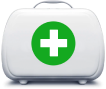
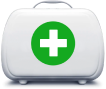
правки в иконки

diff --git a/assets/scss/style_lk.scss b/assets/scss/style_lk.scss
@@ -524,36 +524,29 @@
             z-index: 1;
         }
         
-        .block-policy[data-id="1"]:after {
-            background-color: #EDF8EA;
-        }
-        
-        .block-policy[data-id="2"]:after {
+        .block-policy[data-id="1"]:after,
+        .block-policy[data-id="8"]:after,
+        .block-policy[data-id="10"]:after {
             background-color: #ECF3FA;
         }
         
-        .block-policy[data-id="3"]:after {
-            background-color: #ECEBF4;
+        .block-policy[data-id="2"]:after,
+        .block-policy[data-id="3"]:after,
+        .block-policy[data-id="5"]:after {
+            background-color: #EDF8EA;
         }
         
         .block-policy[data-id="4"]:after {
-            background-color: #EDF8EA;
-        }
-        
-        .block-policy[data-id="5"]:after {
-            background-color: #ECF3FA;
-        }
-        
-        .block-policy[data-id="6"]:after {
             background-color: #ECEBF4;
         }
         
-        .block-policy[data-id="7"]:after {
+        .block-policy[data-id="5"]:after {
             background-color: #EDF8EA;
         }
         
-        .block-policy[data-id="8"]:after {
-            background-color: #ECF3FA;
+        .block-policy[data-id="6"]:after,
+        .block-policy[data-id="7"]:after {
+            background-color: #FFF8E6;
         }
         
         .block-policy[data-id="1"]:before {
@@ -565,7 +558,7 @@
         }
         
         .block-policy[data-id="3"]:before {
-            background: url(/img/product-id2.png) 50% 50% no-repeat;
+            background: url(/img/product-id3.png) 50% 50% no-repeat;
         }
         
         .block-policy[data-id="4"]:before {
@@ -577,15 +570,19 @@
         }
         
         .block-policy[data-id="6"]:before {
-            background: url(/img/product-id3.png) 50% 50% no-repeat;
+            background: url(/img/product-id6.png) 50% 50% no-repeat;
         }
         
         .block-policy[data-id="7"]:before {
-            background: url(/img/product-id1.png) 50% 50% no-repeat;
+            background: url(/img/product-id7.png) 50% 50% no-repeat;
         }
         
         .block-policy[data-id="8"]:before {
             background: url(/img/product-id1.png) 50% 50% no-repeat;
+        }
+        
+        .block-policy[data-id="10"]:before {
+            background: url(/img/product-id10.png) 50% 50% no-repeat;
         }
         
         .insured-events .title,
@@ -656,132 +653,85 @@
             font-size: 0.875rem;
         }
         
-        .insured-events[data-id="1"] {
-            background-color: #EDF8EA;
-        }
-        
-        .insured-events[data-id="2"] {
+        .insured-events[data-id="1"],
+        .insured-events[data-id="8"],
+        .insured-events[data-id="10"] {
             background-color: #ECF3FA;
         }
         
-        .insured-events[data-id="3"] {
+        .insured-events[data-id="2"],
+        .insured-events[data-id="3"],
+        .insured-events[data-id="5"] {
             background-color: #EDF8EA;
         }
         
         .insured-events[data-id="4"] {
-            background-color: #ECF3FA;
+            background-color: #ECEBF4;
         }
         
         .insured-events[data-id="5"] {
             background-color: #EDF8EA;
         }
         
-        .insured-events[data-id="6"] {
-            background-color: #ECF3FA;
-        }
-        
+        .insured-events[data-id="6"],
         .insured-events[data-id="7"] {
-            background-color: #EDF8EA;
+            background-color: #FFF8E6;
         }
         
-        .insured-events[data-id="8"] {
-            background-color: #ECF3FA;
+        .insured-events[data-id]:after {
+            width: 70px;
+            height: 70px;
+            border-radius: 70px;
+            border: 11px solid transparent;
+            content: "";
+            position: absolute;
+            right: 13px;
+            top: 13px;
         }
         
         .insured-events[data-id="1"]:after {
-            width: 70px;
-            height: 70px;
-            border-radius: 70px;
-            border: 11px solid #ffffff20;
-            content: "";
-            position: absolute;
-            right: 13px;
-            top: 13px;
             background: url(/img/icon-insured-events1.svg) 50% 50% no-repeat;
+            border-color: #ECF3FA;
         }
         
         .insured-events[data-id="2"]:after {
-            width: 70px;
-            height: 70px;
-            border-radius: 70px;
-            border: 11px solid #ffffff20;
-            content: "";
-            position: absolute;
-            right: 13px;
-            top: 13px;
-            background: url(/img/icon-insured-events3.svg) 50% 50% no-repeat;
+            background: url(/img/icon-insured-events2.svg) 50% 50% no-repeat;
+            border-color: #EDF8EA;
         }
         
         .insured-events[data-id="3"]:after {
-            width: 70px;
-            height: 70px;
-            border-radius: 70px;
-            border: 11px solid #ffffff20;
-            content: "";
-            position: absolute;
-            right: 13px;
-            top: 13px;
-            background: url(/img/icon-insured-events1.svg) 50% 50% no-repeat;
+            background: url(/img/icon-insured-events3.svg) 50% 50% no-repeat;
+            border-color: #EDF8EA;
         }
         
         .insured-events[data-id="4"]:after {
-            width: 70px;
-            height: 70px;
-            border-radius: 70px;
-            border: 11px solid #ffffff20;
-            content: "";
-            position: absolute;
-            right: 13px;
-            top: 13px;
-            background: url(/img/icon-insured-events3.svg) 50% 50% no-repeat;
+            background: url(/img/icon-insured-events4.svg) 50% 50% no-repeat;
+            border-color: #ECEBF4;
         }
         
         .insured-events[data-id="5"]:after {
-            width: 70px;
-            height: 70px;
-            border-radius: 70px;
-            border: 11px solid #ffffff20;
-            content: "";
-            position: absolute;
-            right: 13px;
-            top: 13px;
             background: url(/img/icon-insured-events1.svg) 50% 50% no-repeat;
+            border-color: #EDF8EA;
         }
         
         .insured-events[data-id="6"]:after {
-            width: 70px;
-            height: 70px;
-            border-radius: 70px;
-            border: 11px solid #ffffff20;
-            content: "";
-            position: absolute;
-            right: 13px;
-            top: 13px;
-            background: url(/img/icon-insured-events3.svg) 50% 50% no-repeat;
+            background: url(/img/icon-insured-events6.svg) 50% 50% no-repeat;
+            border-color: #FFF8E6;
         }
         
         .insured-events[data-id="7"]:after {
-            width: 70px;
-            height: 70px;
-            border-radius: 70px;
-            border: 11px solid #ffffff20;
-            content: "";
-            position: absolute;
-            right: 13px;
-            top: 13px;
-            background: url(/img/icon-insured-events1.svg) 50% 50% no-repeat;
+            background: url(/img/icon-insured-events7.svg) 50% 50% no-repeat;
+            border-color: #FFF8E6;
         }
         
         .insured-events[data-id="8"]:after {
-            width: 70px;
-            height: 70px;
-            border-radius: 70px;
-            border: 11px solid #ffffff20;
-            content: "";
-            position: absolute;
-            right: 13px;
-            top: 13px;
             background: url(/img/icon-insured-events3.svg) 50% 50% no-repeat;
+            border-color: #ECF3FA;
+        }
+        
+        .insured-events[data-id="10"]:after {
+            background: url(/img/icon-insured-events10.svg) 50% 50% no-repeat;
+            border-color: #ECF3FA;
         }
         
         .block-visit {